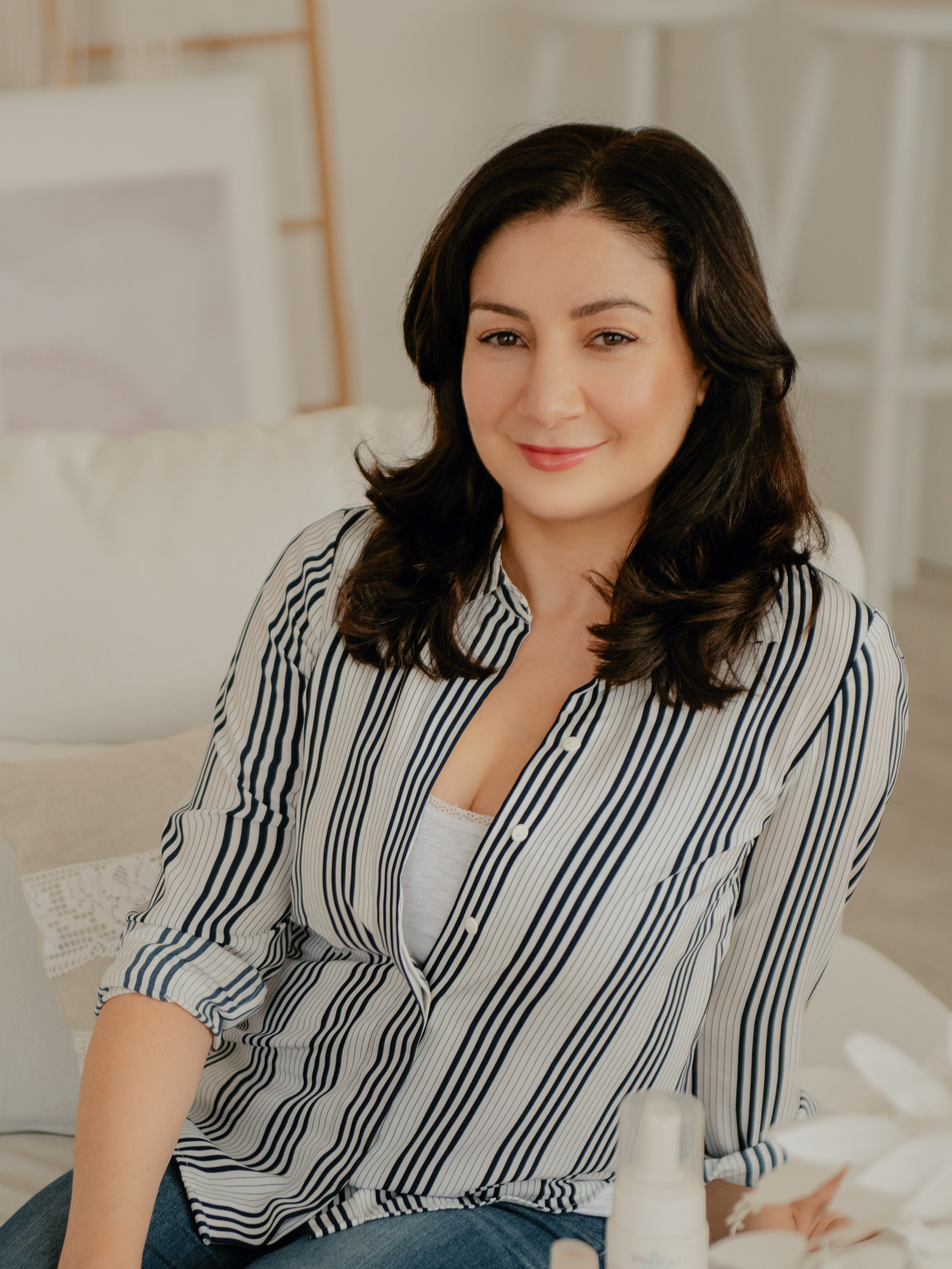
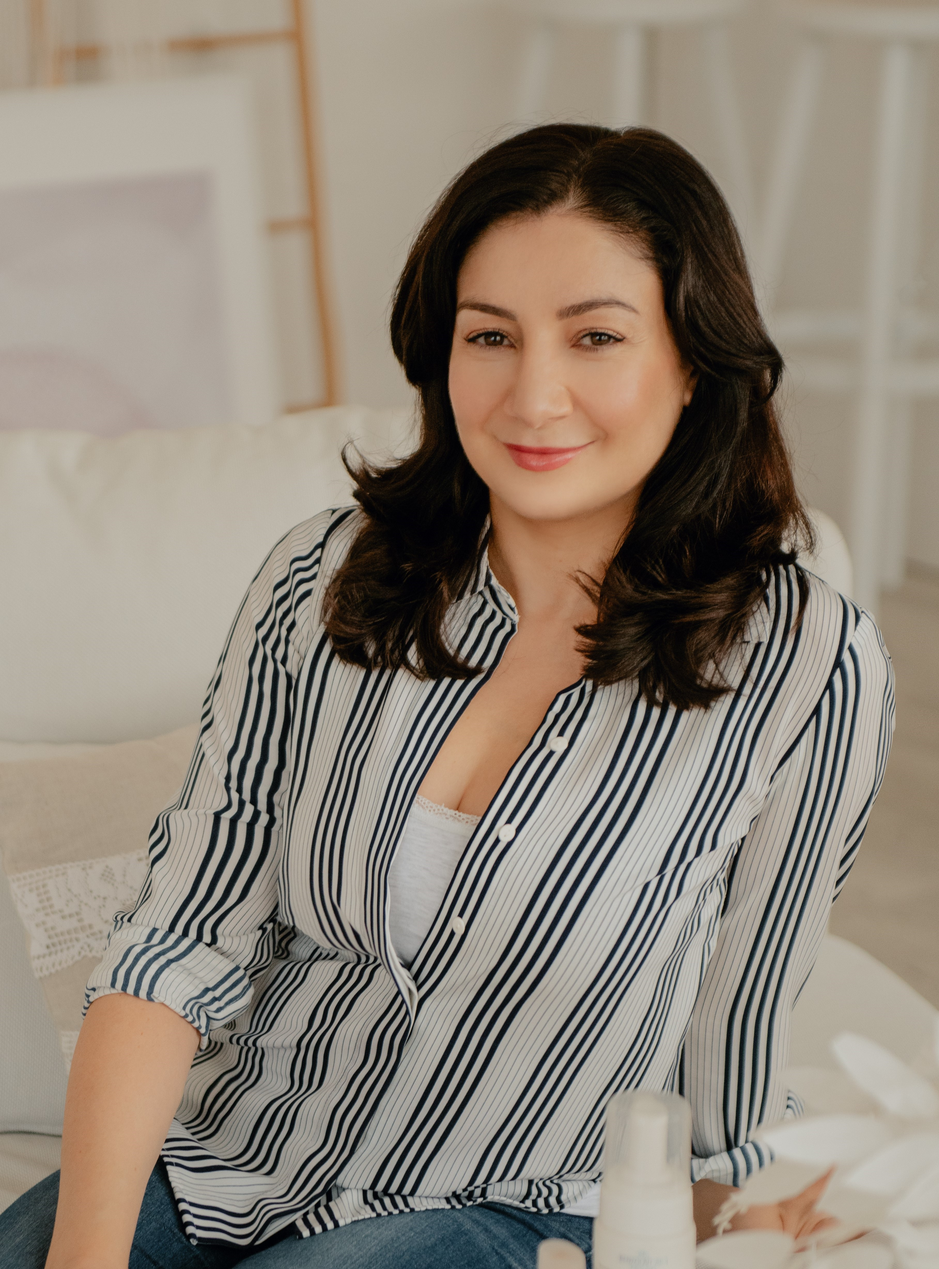
Add info about basic consultation to Services and individual page

diff --git a/en/services-basic-consultation.html b/en/services-basic-consultation.html
@@ -13,7 +13,7 @@ title: Cherish your skin
 
             <div class="card">
 
-                <img src="/images/services__card3.jpg" alt="Individual skincare plan" class="card__image">
+                <img src="/images/services__card3(individual-page).jpg" alt="Individual skincare plan" class="card__image">
 
                 <div class="card__info">
 
@@ -21,10 +21,10 @@ title: Cherish your skin
 
                     <div class="card__info-description">
                         <ol class="text--dark text--extra-padding-left">
-                            <li class="li--check">?????</li>
-                            <li class="li--check">?????</li>
-                            <li class="li--check">?????</li>
-                            <li class="li--check">?????</li>
+                                <li class="li--check">30 minutes online video call</li>
+                                <li class="li--check">Detailed tailored skincare routine</li>
+                                <li class="li--check">General instructions on how to take care of young skin</li>
+                                <li class="li--check">1 week email support 1 month after online consultation</li>
                         </ol>
                     </div>
 

diff --git a/en/services.html b/en/services.html
@@ -106,10 +106,10 @@ title: Cherish your skin
 
                         <div class="card__info-description">                        
                             <ol class="text--dark text--extra-padding-left">
-                                <li class="li--check">????????????????</li>
-                                <li class="li--check">??????????????????</li>
-                                <li class="li--check">?????????????</li>
-                                <li class="li--check">???????????????</li>
+                                <li class="li--check">30 minutes online video call</li>
+                                <li class="li--check">Detailed tailored skincare routine</li>
+                                <li class="li--check">General instructions on how to take care of young skin</li>
+                                <li class="li--check">1 week email support 1 month after online consultation</li>
                             </ol>
                         </div>
 
